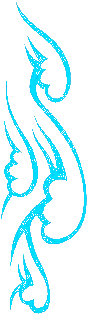
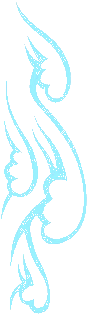
Particle WaterWaveDistort preset added

Changed region(s): [[0.1149, 0.0, 1.0, 1.0], [0.0, 0.258, 0.4368, 0.7166], [0.3678, 0.4013, 0.3908, 0.4299]]

diff --git a/SonOfRobin.Core/Game/Pieces/PiecesHelpers/ParticleEngine.cs b/SonOfRobin.Core/Game/Pieces/PiecesHelpers/ParticleEngine.cs
@@ -30,7 +30,7 @@ namespace SonOfRobin
             WaterCruiseCine = 9,
             WaterSplashCine = 10,
             MudWalk = 11,
-            WaterWave = 12,
+            WaterWaveDraw = 12,
             LavaFlame = 13,
 
             SwampGas = 14,
@@ -57,6 +57,7 @@ namespace SonOfRobin
             WindPetal = 32,
 
             WaterDistortWalk = 41,
+            WaterWaveDistort = 42,
             HeatSmall = 33,
             HeatMedium = 34,
             HeatBig = 35,
@@ -78,7 +79,8 @@ namespace SonOfRobin
                 { Preset.WaterDistortWalk, TextureBank.TextureName.ParticleCircleSoft },
                 { Preset.WaterCruiseCine, TextureBank.TextureName.ParticleCircleSharp },
                 { Preset.WaterSplashCine, TextureBank.TextureName.ParticleCircleSharp },
-                { Preset.WaterWave, TextureBank.TextureName.ParticleCircleSoft },
+                { Preset.WaterWaveDraw, TextureBank.TextureName.ParticleCircleSoft },
+                { Preset.WaterWaveDistort, TextureBank.TextureName.ParticleCircleSoft },
                 { Preset.CookingFinish, TextureBank.TextureName.ParticleCircleSoft },
                 { Preset.BrewingFinish, TextureBank.TextureName.ParticleBubble },
                 { Preset.Excavated, TextureBank.TextureName.ParticleCircleSharp },
@@ -858,7 +860,7 @@ namespace SonOfRobin
                         break;
                     }
 
-                case Preset.WaterWave:
+                case Preset.WaterWaveDraw:
                     {
                         defaultParticlesToEmit = 3;
 
@@ -889,6 +891,47 @@ namespace SonOfRobin
                                         {
                                             StartValue = new Vector2(1.0f),
                                             EndValue = new Vector2(3.1f)
+                                        },
+                                    }
+                                },
+                                new DragModifier { Density = 0.7f, DragCoefficient = 1f },
+                            }
+                        };
+                        break;
+                    }
+
+                case Preset.WaterWaveDistort:
+                    {
+                        drawAsDistortion = true;
+                        defaultParticlesToEmit = 3;
+
+                        float axisX = MathF.Cos(this.sprite.rotation - (float)(Math.PI / 2));
+                        float axisY = MathF.Sin(this.sprite.rotation - (float)(Math.PI / 2));
+
+                        particleEmitter = new ParticleEmitter(textureRegion, 700, TimeSpan.FromSeconds(1.4f), Profile.Line(axis: new Vector2(axisX, axisY), length: this.sprite.GfxRect.Height * 0.85f))
+                        {
+                            Parameters = new ParticleReleaseParameters
+                            {
+                                Color = HslColor.FromRgb(Color.White),
+                                Speed = new Range<float>(20f, 60f),
+                                Quantity = 0,
+                            },
+
+                            Modifiers =
+                            {
+                                new AgeModifier
+                                {
+                                    Interpolators =
+                                    {
+                                        new OpacityInterpolator
+                                        {
+                                            StartValue = 0.35f,
+                                            EndValue = 0f
+                                        },
+                                        new ScaleInterpolator
+                                        {
+                                            StartValue = new Vector2(0.2f),
+                                            EndValue = new Vector2(4.2f)
                                         },
                                     }
                                 },

diff --git a/SonOfRobin.Core/Game/Pieces/VisualEffect.cs b/SonOfRobin.Core/Game/Pieces/VisualEffect.cs
@@ -119,7 +119,11 @@ namespace SonOfRobin
                 }
                 else
                 {
-                    if (this.sprite.opacity > 0) ParticleEngine.TurnOn(sprite: this.sprite, preset: ParticleEngine.Preset.WaterWave, particlesToEmit: (int)(this.sprite.opacity * 1f), duration: 15);
+                    if (this.sprite.opacity > 0)
+                    {
+                        ParticleEngine.TurnOn(sprite: this.sprite, preset: ParticleEngine.Preset.WaterWaveDraw, particlesToEmit: 1, duration: (int)(this.sprite.opacity * 5));
+                        if (this.sprite.opacity > 0.3f) ParticleEngine.TurnOn(sprite: this.sprite, preset: ParticleEngine.Preset.WaterWaveDistort, particlesToEmit: 1, duration: (int)(this.sprite.opacity * 3));
+                    }
                 }
             }
 
